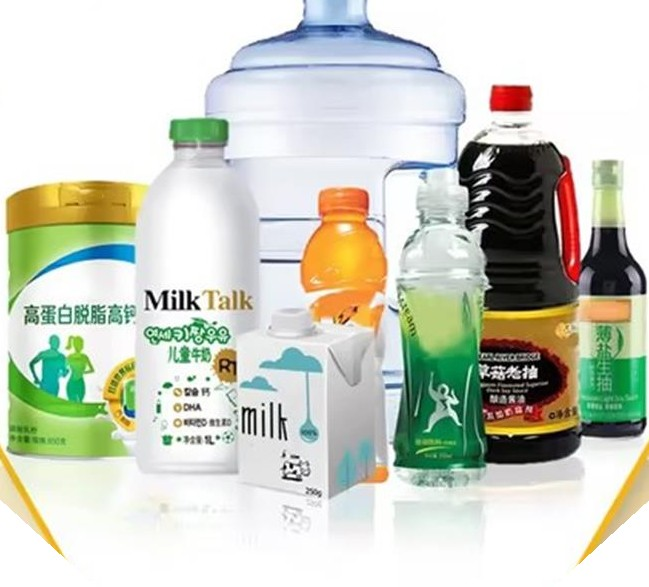
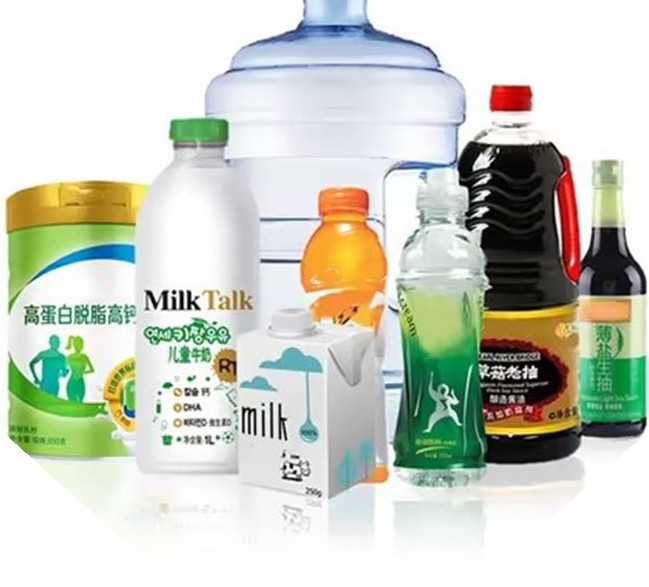
Add Cutting-edge Technology section + clean product-tile hex slivers
New Technology section (conformal cooling, rapid heat cycle molding, lean
automation) with real process photography from the deck, positioned between
facility and molding-at-scale. Also tightened product-showcase crops to
remove residual yellow hex-frame corners.

Changed region(s): [[0.0, 0.7359, 0.1233, 0.9506], [0.8937, 0.7359, 1.0, 0.9506]]

diff --git a/index.html b/index.html
@@ -217,6 +217,39 @@
   </div>
 </section>
 
+<section id="technology">
+  <div class="wrap">
+    <div class="sec-head">
+      <div class="kicker">Cutting edge technology</div>
+      <h2>Technology that most mold shops cannot offer</h2>
+      <p>TK invests in the processes that decide part quality and cost, so your program launches faster and runs cleaner at volume.</p>
+    </div>
+    <div class="tech-grid">
+      <article class="tech-card">
+        <div class="tech-img"><img src="assets/site/tech_cooling.jpg" alt="3D metal printer for conformal cooling inserts" loading="lazy" width="544" height="306" /></div>
+        <div class="tech-body">
+          <h3>Conformal cooling</h3>
+          <p>3D printed conformal cooling channels follow the part geometry for up to 30 percent higher cooling efficiency, shorter cycles, and less warpage.</p>
+        </div>
+      </article>
+      <article class="tech-card">
+        <div class="tech-img"><img src="assets/site/tech_rhcm.jpg" alt="Rapid heat cycle molding tool running" loading="lazy" width="544" height="305" /></div>
+        <div class="tech-body">
+          <h3>Rapid heat cycle molding</h3>
+          <p>RHCM delivers high gloss, weld line free surfaces and reliable thin walls on cosmetic parts, with fewer stress marks and secondary steps.</p>
+        </div>
+      </article>
+      <article class="tech-card">
+        <div class="tech-img"><img src="assets/site/tech_automation.jpg" alt="Automated in mold placement and inspection cell" loading="lazy" width="544" height="306" /></div>
+        <div class="tech-body">
+          <h3>Lean automation</h3>
+          <p>Automated cells handle in mold placement, assembly, inspection, and secondary processing for consistent quality at production volume.</p>
+        </div>
+      </article>
+    </div>
+  </div>
+</section>
+
 <section id="molding" class="soft">
   <div class="wrap">
     <div class="sec-head">

diff --git a/assets/styles.css b/assets/styles.css
@@ -103,6 +103,18 @@
   .prod-tags span{font-size:.79rem;font-weight:600;color:var(--body);background:var(--bg-soft);border:1px solid var(--line);border-radius:999px;padding:.34rem .72rem}
   @media(prefers-reduced-motion:reduce){.prod-card{transition:none}.prod-card:hover{transform:none}}
 
+  /* Cutting edge technology */
+  .tech-grid{display:grid;grid-template-columns:repeat(3,1fr);gap:24px}
+  .tech-card{background:#fff;border:1px solid var(--line);border-radius:14px;overflow:hidden;box-shadow:var(--shadow);transition:transform .28s var(--ease-out),box-shadow .28s var(--ease-out)}
+  .tech-card:hover{transform:translateY(-6px);box-shadow:var(--shadow-lg)}
+  .tech-img{aspect-ratio:16/9;overflow:hidden;background:#0f1216}
+  .tech-img img{width:100%;height:100%;object-fit:cover;transition:transform .5s var(--ease-out)}
+  .tech-card:hover .tech-img img{transform:scale(1.05)}
+  .tech-body{padding:22px 24px 26px}
+  .tech-body h3{font-size:1.2rem;margin-bottom:9px;letter-spacing:-.01em}
+  .tech-body p{color:var(--body);font-size:.96rem}
+  @media(prefers-reduced-motion:reduce){.tech-card,.tech-img img{transition:none}.tech-card:hover{transform:none}.tech-card:hover .tech-img img{transform:none}}
+
   /* Industry category cards: lifestyle photo, mold render, orange caption (TK format) */
   .markets{display:grid;grid-template-columns:repeat(5,1fr);gap:18px}
   .mkt{display:flex;flex-direction:column;border-radius:var(--radius);overflow:hidden;background:#fff;box-shadow:var(--shadow);transition:transform .3s var(--ease-out),box-shadow .3s var(--ease-out)}
@@ -266,6 +278,7 @@
   }
   @media(max-width:1024px){
     .prod-grid{grid-template-columns:repeat(2,1fr)}
+    .tech-grid{grid-template-columns:1fr}
   }
   @media(max-width:900px){
     .stocktag{display:none}
